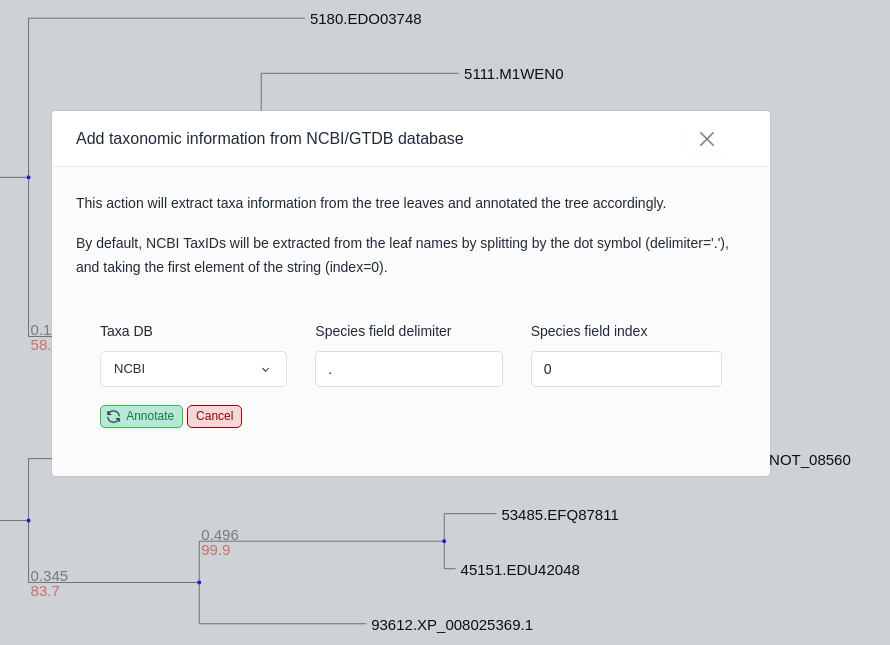
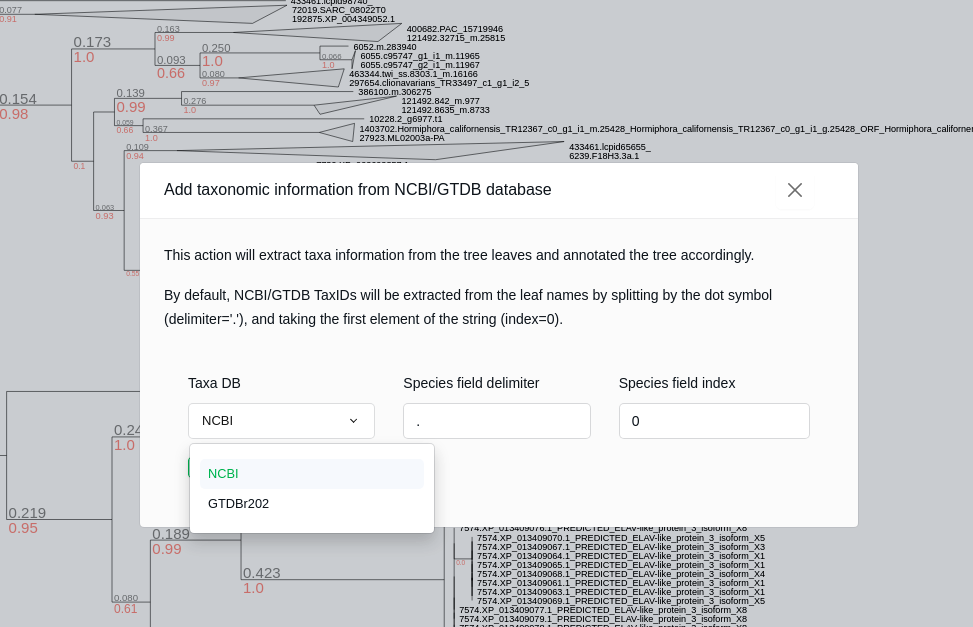
update help

diff --git a/README.md b/README.md
@@ -18,7 +18,7 @@ Besides of common usage for trees management, we also provide various phylogenet
 If you already have a tree, PhyloCloud implemented the state-of-art tree visualizing engine and provide various options for further modification or analysis.
 
 - [Tree visualization](#treepage) with different tree edition, anaylsis and annotation
-- [Tree Annotation](#treeannotation) annotate trees with taxonomic, evolutionary events
+- [Tree export](#treeexport) export tree with different format, and share
 
 # UploadTree
 One of the core features in PhyloCloud is to allow user upload multiple trees as a collection. Click the [Upload tree](https://phylocloud.cgmlab.org/) button at the top right corner of the page to open the upload panel.
@@ -91,24 +91,30 @@ Taxa tree result will be shown below
 
 # TreePage
 Once upload your tree, you are able to visualize it on the TreePage
-
 ![quickstart](./img/figure_2_test_5_caption_2.jpg)
 
+## A) General Interface
+PhyloCloud uses the new visualisation framework implemented in ETE 4.0, which allows for the interactive exploration of huge phylogenies based on a context-based adaptive zooming strategy. It allows for quick searches within large tree topologies, where each search can be associated to a different label and colour. By hover over target node or clade, it shows properties information(if there is any) of related node. By default, ecah node contain three basic properties, <em>name</em>,  <em>dist</em>, and <em>support</em>.
 
+## B) Control Panel
+Control Panel of tree view is consists of three major tabs:
+- <strong>Layout</strong> includes the basic options in regards to general tree layout information, including tree display mode, nodes collapse degree, annotation layout, etc
+- <strong>Select & Search</strong> provides options for choose colors for selected nodes or clades. It also provide function for searching target node with regular expression by clicking "new search" button. Noted that searching function can be also triggered with the shortcut key "/" or clicking a direct button to the tree view panel 
+- <strong>Advance</strong> tab provides more specific options in regards to scale level, width, height from tree view to minimap.
 
-if you want to perform any tree editing, such as node labeling, layouts editing, click the  <strong>Control Panel</string> on top left corner or right click to target node
+## C) Node Panel
+The node editor panel provides access to node-specific actions, such as creating subtrees, collapsing, pruning, rooting, and more.
 
-![taxaexample1](./img/treepage2.png)
+## D) Tree Analysis
 
-# TreeAnnotation
+In order to perform any analysis or annotations, such as taxonomic or evolutionary detection, click the <strong>Analyze</strong> from the navigator
+Currently we provide four options of analysis.
 
-if you want to perform any analysis or annotations, such as taxonomic or evolutionary detection, click the <strong>Analyze</string> from the navigator
-
-![taxaexample1](./img/treepage1.png)
-
-Currently we provide four options of analysis:
-
-## 1) Taxonomic annotation
+### Topology Editing
+Here you can find topology modifications such as automatic re-rooting, pruning, ladderizing branches, resolving polytomies or converting tree topology into an ultrametric. 
+  
+### Tree Annotation
+### 1) Taxonomic annotation
 This action will extract taxa information from the tree leaves and annotated the tree accordingly.
 
 By default, NCBI/GTDB TaxIDs will be extracted from the leaf names by splitting by the dot symbol (e.g, delimiter='.'), and taking the first element of the string (index=0), and choose NCBI or GTDB for Taxa DB.
@@ -125,8 +131,9 @@ After select correctly column info, click Annotate
 
 Taxa info will be activated in tree layouts at aligned panel
 
+    *Notes that PhyloCloud adopts GTDB Release 202, annotate it with different GTDB ids may encounter issues 
 
-## 2) Evolutionary annotation
+### 2) Evolutionary annotation
 This action will scan tree topology and use species information of each leaf to infer speciation and duplication events.
 
 By deafult, species names are extracted by splitting leaf names by the dot symbol (delimiter='.'), and taking the first element (index=0)
@@ -146,11 +153,12 @@ After annotation, Speciation events are lable as blue dots, and Duplication is r
 This action will link a multiple sequence alignment to the current tree.
 
 check example tree https://phylocloud.cgmlab.org/tree_page/6245c056721288d60d0041ab/
-with demo msa
+with demo msa 
 
 After added alignment file, click `Alignment` layout on `Control panel`, alignment layout will be displayed
 ![taxaexample1](./img/treealign1.png)
 
+*Noted the above changes can be either discarded after testing or saved permanently into the database by clicking <strong>Save Changes </strong> on the top right corner
 
-
+# TreeExport
 
